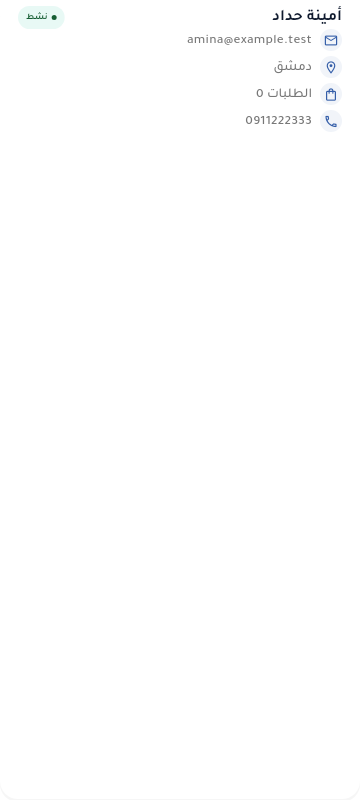
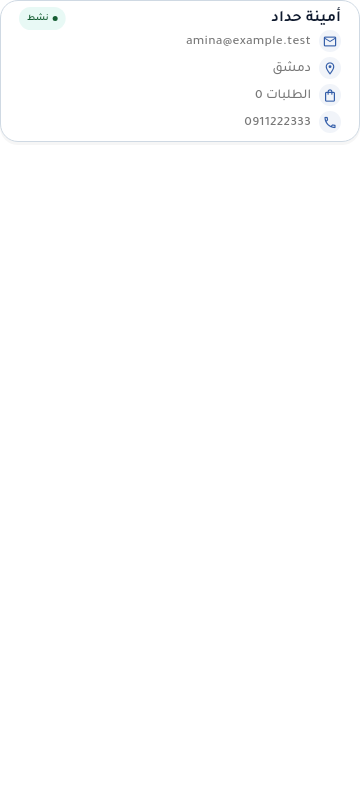
GAP-084: the eight wave-1 candidates were PRE-FRAMING-FIX, and they are re-exported, not approved
THE STALENESS, MEASURED FROM GIT RATHER THAN RECALLED. `git log -- docs/evidence/
route-1-candidates/` returns exactly ONE commit: d7d38d5 (2026-11-07), which put
the eight PNGs and the contact sheet there. 3727efc (2026-11-09) fixed the card
framing two commits later and touched customer_widget.dart, delivery_boy_widget.dart
and golden_harness.dart. Nothing refreshed this directory in the seventeen days
since, so the review package still showed a defect the code no longer has.

WHAT THE STALENESS LOOKED LIKE, each old file against a fresh capture of the same
surface from the current harness, differing pixels counted exactly:

  customer-card.light-ltr       2.19%   last content row y=799 -> y=144
  customer-card.light-rtl       2.20%                    y=799 -> y=144
  customer-card.dark-ltr       82.53%                    y=799 -> y=142
  customer-card.dark-rtl       82.53%                    y=799 -> y=142
  delivery-boy-card.light-ltr   2.13%                    y=799 -> y=123
  delivery-boy-card.light-rtl   2.05%                    y=799 -> y=123
  delivery-boy-card.dark-ltr   85.16%                    y=799 -> y=121
  delivery-boy-card.dark-rtl   85.16%                    y=799 -> y=121

The dark pair is where it is obvious: 98.2-98.4% of the stale image is the CARD's
own fill with no page colour in it at all, because the card stretched to the whole
360x800 box; the fresh ones read 82.2-84.8% page.
[…]

diff --git a/tool/contact_sheet.py b/tool/contact_sheet.py
@@ -1,0 +1,205 @@
+#!/usr/bin/env python3
+"""Build the route-1 CONTACT SHEET from a directory of captured golden images.
+
+WHY THIS FILE EXISTS, AND IT IS NOT CONVENIENCE
+===============================================
+`docs/evidence/route-1-candidates/CONTACT-SHEET.png` is what a reviewer actually looks at, and
+until now it had no generator anywhere in this repository: it was made once, by hand, beside the
+eight wave-1 candidates in d7d38d5 (2026-11-07). Three commits later 3727efc (2026-11-09) fixed the
+card framing, the eight PNGs and the sheet were never re-made, and the review package went on
+showing a defect that the code no longer had -- measured at 82.5% and 85.2% of differing pixels in
+the two dark card surfaces. A review package that cannot be regenerated in one command is a review
+package that goes stale, so the command is now in the repository next to the images.
+
+WHAT IT DOES NOT DO. It does not approve anything, it does not write into `test/golden/goldens/`,
+and it does not decide which images are correct. It lays captured PNGs out side by side with their
+combination named under each one so that a person can look at all of them at once. Route 1 step 2 --
+a human eye on every image -- is unchanged and is not performed by this script.
+
+THE CROP IS COMPUTED, NOT CONFIGURED. Every capture is the full 360x800 harness surface and the
+surfaces are content-height since 3727efc, so a fixed crop would either cut a tall card off or leave
+most of a sheet empty. Each row is cropped to the tallest content in that row plus `--page-margin`
+rows of page background, which is deliberate: the band of page colour UNDER the card is the visible
+proof that the card is content-height rather than filling its box, which is exactly the regression
+this directory shipped once already.
+
+USAGE
+    python3 tool/contact_sheet.py \
+        --images-dir docs/evidence/route-1-candidates \
+        --out docs/evidence/route-1-candidates/CONTACT-SHEET.png \
+        --note "Flutter 3.47.7 - flutter test --tags golden --update-goldens" \
+        --surface "customer-card|Customer card|lib/view/new_widgets/customer_widget.dart"
+
+Requires Pillow built with libraqm, because half of these images are Arabic and the per-tile labels
+carry Arabic text: without shaping, `العربية` renders as disconnected letters in the wrong order.
+`PIL.features.check('raqm')` is asserted below rather than assumed.
+"""
+
+from __future__ import annotations
+
+import argparse
+import sys
+from pathlib import Path
+
+from PIL import Image, ImageDraw, ImageFont, features
+
+# The four combinations every surface in this project is captured in, in the order a reviewer reads
+# them: the two light ones, then the two dark ones. Matches `kFourCombinations` in
+# test/support/golden_harness.dart.
+COMBINATIONS = [
+    ("light-ltr", "English", "LTR", "Light"),
+    ("light-rtl", "العربية", "RTL", "Light"),
+    ("dark-ltr", "English", "LTR", "Dark"),
+    ("dark-rtl", "العربية", "RTL", "Dark"),
+]
+
+TILE_W = 360          # the harness surface width; images are placed at 1:1, never rescaled
+GAP = 16
+MARGIN = 18
+HEADER_TOP = 64      # title + subtitle; the notes grow the band below this
+NOTE_H = 16
+LABEL_H = 34
+SECTION_H = 46
+
+INK = (15, 26, 46)
+MUTED = (110, 120, 135)
+PAPER = (255, 255, 255)
+BAND = (15, 26, 46)
+BAND_INK = (255, 255, 255)
+BAND_MUTED = (150, 200, 230)
+HAIRLINE = (190, 198, 210)
+
+# The app's own typeface, so the sheet is set in the same family as the pictures on it.
+FONT_DIR = Path(__file__).resolve().parent.parent / "assets" / "fonts"
+FALLBACK_FONT_DIR = Path("/usr/share/fonts/truetype/dejavu")
+
+
+def _font(weight: str, size: int) -> ImageFont.FreeTypeFont:
+    candidates = [
+        FONT_DIR / f"Tajawal-{weight}.ttf",
+        FALLBACK_FONT_DIR / ("DejaVuSans-Bold.ttf" if weight != "Regular" else "DejaVuSans.ttf"),
+    ]
+    for path in candidates:
+        if path.exists():
+            return ImageFont.truetype(str(path), size)
+    raise SystemExit(f"no font found for weight {weight}; looked in {FONT_DIR} and {FALLBACK_FONT_DIR}")
+
+
+def content_bottom(image: Image.Image) -> int:
+    """The last row that is not the page background, i.e. where the rendered content ends.
+
+    The page colour is read from the BOTTOM-left pixel, not the top-left: content is aligned to
+    `AlignmentDirectional.topStart` by the harness, so the top-left pixel can be inside the card's
+    own rounded corner while the bottom-left is always page.
+    """
+    rgb = image.convert("RGB")
+    width, height = rgb.size
+    page = rgb.getpixel((0, height - 1))
+    pixels = rgb.load()
+
+    for y in range(height - 1, -1, -1):
+        for x in range(width):
+            r, g, b = pixels[x, y]
+            if abs(r - page[0]) > 2 or abs(g - page[1]) > 2 or abs(b - page[2]) > 2:
+                return y
+
+    return 0
+
+
+def parse_surface(spec: str) -> tuple[str, str, str]:
+    parts = spec.split("|")
+    if len(parts) != 3:
+        raise SystemExit(f'--surface wants "slug|Title|source/path.dart", got "{spec}"')
+    return parts[0], parts[1], parts[2]
+
+
+def main(argv: list[str]) -> int:
+    if not features.check("raqm"):
+        raise SystemExit(
+            "Pillow has no libraqm, so the Arabic labels on this sheet would render as "
+            "disconnected letters in visual order. Install libraqm and rebuild Pillow."
+        )
+
+    ap = argparse.ArgumentParser(description=__doc__)
+    ap.add_argument("--images-dir", required=True)
+    ap.add_argument("--out", required=True)
+    ap.add_argument("--title", default="Flutter route 1 — GOLDEN CANDIDATES, NOT APPROVED BASELINES")
+    ap.add_argument(
+        "--subtitle",
+        default="Awaiting human review (step 2 of 3). Nothing here is committed to "
+        "test/golden/goldens as a baseline.",
+    )
+    ap.add_argument("--note", action="append", default=[])
+    ap.add_argument("--surface", action="append", required=True)
+    ap.add_argument("--page-margin", type=int, default=46,
+                    help="rows of page background kept under the tallest content in each row")
+    args = ap.parse_args(argv)
+
+    images_dir = Path(args.images_dir)
+    surfaces = [parse_surface(s) for s in args.surface]
+
+    # Load every tile first: the sheet's height depends on what the pictures contain.
+    rows: list[tuple[str, str, str, list[tuple[str, Image.Image]]]] = []
+    for slug, title, source in surfaces:
+        tiles = []
+        for name, _lang, _dir_, _theme in COMBINATIONS:
+            path = images_dir / f"{slug}.{name}.png"
+            if not path.exists():
+                raise SystemExit(f"missing capture: {path}")
+            tiles.append((name, Image.open(path).convert("RGB")))
+        rows.append((slug, title, source, tiles))
+
+    row_heights = [
+        min(
+            max(content_bottom(img) for _, img in tiles) + args.page_margin,
+            tiles[0][1].size[1],
+        )
+        for _, _, _, tiles in rows
+    ]
+
+    header_h = HEADER_TOP + NOTE_H * len(args.note) + 8
+    width = MARGIN * 2 + TILE_W * 4 + GAP * 3
+    height = header_h + sum(SECTION_H + h + LABEL_H + GAP for h in row_heights) + MARGIN
+
+    sheet = Image.new("RGB", (width, height), PAPER)
+    draw = ImageDraw.Draw(sheet)
+
+    f_title = _font("Bold", 21)
+    f_sub = _font("Medium", 14)
+    f_note = _font("Regular", 12)
+    f_section = _font("Bold", 16)
+    f_label = _font("Bold", 13)
+    f_file = _font("Regular", 11)
+
+    draw.rectangle([0, 0, width, header_h], fill=BAND)
+    draw.text((MARGIN, 14), args.title, font=f_title, fill=BAND_INK)
+    draw.text((MARGIN, 42), args.subtitle, font=f_sub, fill=BAND_MUTED)
+    for i, note in enumerate(args.note):
+        draw.text((MARGIN, HEADER_TOP + i * NOTE_H), note, font=f_note, fill=(185, 195, 210))
+
+    y = header_h + 12
+    for (slug, title, source, tiles), row_h in zip(rows, row_heights):
+        draw.text((MARGIN, y), title, font=f_section, fill=INK)
+        draw.text((MARGIN, y + 21), source, font=f_file, fill=MUTED)
+        y += SECTION_H
+
+        for col, ((name, img), (_n, lang, direction, theme)) in enumerate(zip(tiles, COMBINATIONS)):
+            x = MARGIN + col * (TILE_W + GAP)
+            sheet.paste(img.crop((0, 0, TILE_W, row_h)), (x, y))
+            draw.rectangle([x, y, x + TILE_W - 1, y + row_h - 1], outline=HAIRLINE)
+            draw.text((x, y + row_h + 7), f"{lang}  ·  {direction}  ·  {theme}",
+                      font=f_label, fill=INK)
+            draw.text((x, y + row_h + 21), f"{slug}.{name}.png", font=f_file, fill=MUTED)
+
+        y += row_h + LABEL_H + GAP
+
+    out = Path(args.out)
+    out.parent.mkdir(parents=True, exist_ok=True)
+    sheet.save(out)
+    print(f"{out}  {width}x{height}  "
+          f"{len(rows)} surfaces x {len(COMBINATIONS)} combinations = {len(rows) * 4} images")
+    return 0
+
+
+if __name__ == "__main__":
+    sys.exit(main(sys.argv[1:]))

diff --git a/docs/evidence/route-1-candidates/README.md b/docs/evidence/route-1-candidates/README.md
@@ -6,6 +6,7 @@ and copied it into `test/golden/goldens/`; from that moment the ordinary blockin
 compares pixels against it on every push, for ever.
 
 `CONTACT-SHEET.png` is all eight at a glance. The individual originals are beside it at full size.
+Both are regenerated by `tool/contact_sheet.py`; see §"Re-exported" below for the exact command.
 
 | file | surface | language | direction | theme |
 |---|---|---|---|---|
@@ -20,6 +21,68 @@ compares pixels against it on every push, for ever.
 
 Sources: `lib/view/new_widgets/customer_widget.dart`, `lib/view/new_widgets/delivery_boy_widget.dart`.
 Captured with `flutter test --tags golden --update-goldens` on Flutter 3.47.7.
+
+---
+
+## Re-exported 2026-11-26 — the previous eight were PRE-FRAMING-FIX, and still un-reviewed
+
+**The eight images in this directory were replaced, not approved.** They were stale, and approving
+them would have frozen a defect the code no longer has.
+
+**The git ordering, measured rather than recalled.**
+
+| | commit | date | what it did |
+|---|---|---|---|
+| candidates committed | `d7d38d5` | 2026-11-07 | the eight PNGs and the contact sheet went in |
+| framing fixed | `3727efc` | 2026-11-09 | `customer_widget.dart`, `delivery_boy_widget.dart`, `golden_harness.dart` |
+| last touch of this directory | `d7d38d5` | 2026-11-07 | — |
+
+`git log -- docs/evidence/route-1-candidates/` returned exactly one commit, `d7d38d5`, so nothing
+had refreshed these images in the seventeen days since the fix landed two commits later.
+
+**What the staleness looked like.** Each old file against a fresh capture of the same surface from
+the current harness, both 360×800, differing pixels counted exactly:
+
+| image | pixels differing | last content row, stale → fresh | dominant colour, stale → fresh |
+|---|---|---|---|
+| `customer-card.light-ltr.png` | 2.19 % | y=799 → y=144 | `#FFFFFF` 98.3 % → `#FFFFFF` 97.7 % |
+| `customer-card.light-rtl.png` | 2.20 % | y=799 → y=144 | `#FFFFFF` 98.3 % → `#FFFFFF` 97.7 % |
+| `customer-card.dark-ltr.png` | **82.53 %** | y=799 → y=142 | `#18263F` 98.2 % → `#0F1A2E` 82.2 % |
+| `customer-card.dark-rtl.png` | **82.53 %** | y=799 → y=142 | `#18263F` 98.2 % → `#0F1A2E` 82.2 % |
+| `delivery-boy-card.light-ltr.png` | 2.13 % | y=799 → y=123 | `#FFFFFF` 98.4 % → `#FFFFFF` 97.8 % |
+| `delivery-boy-card.light-rtl.png` | 2.05 % | y=799 → y=123 | `#FFFFFF` 98.4 % → `#FFFFFF` 97.9 % |
+| `delivery-boy-card.dark-ltr.png` | **85.16 %** | y=799 → y=121 | `#18263F` 98.3 % → `#0F1A2E` 84.8 % |
+| `delivery-boy-card.dark-rtl.png` | **85.16 %** | y=799 → y=121 | `#18263F` 98.4 % → `#0F1A2E` 84.8 % |
+
+The dark pair is where it is obvious: the stale image is 98 % *card fill* with no page colour in it
+at all, because the card stretched to the whole 360×800 box. **The light pair differs by only ~2 %
+and is just as stale** — the light card's fill is `Colors.white` and so is the page, so the
+stretch is nearly invisible in a colour histogram. Its signature is the last content row: y=799
+(card to the bottom edge) against y=144 (card ends, page below). A reviewer comparing light images
+by eye could easily have passed the stale ones; the 2 % that moved is the 1 px `cBorder` edge
+`3727efc` added plus the card's new bottom edge.
+
+**The command that produced the current eight.**
+
+```
+flutter test --tags golden --update-goldens test/golden/customer_card_golden_test.dart
+cp test/golden/goldens/{customer-card,delivery-boy-card}.*.png docs/evidence/route-1-candidates/
+python3 tool/contact_sheet.py \
+  --images-dir docs/evidence/route-1-candidates \
+  --out docs/evidence/route-1-candidates/CONTACT-SHEET.png \
+  --surface "customer-card|Customer card|lib/view/new_widgets/customer_widget.dart" \
+  --surface "delivery-boy-card|Delivery-man card|lib/view/new_widgets/delivery_boy_widget.dart"
+```
+
+Flutter 3.47.7, the version `.github/workflows/ci.yml` pins as `FLUTTER_VERSION`. The capture was
+run **twice** and the eight files compared byte for byte with `cmp`: identical, so the SDK pin
+holds and these images are reproducible rather than incidental.
+
+**THEY REMAIN UN-REVIEWED AND UN-APPROVED.** Re-exporting a candidate makes it current; it does not
+make it accepted. No human has looked at these eight, nothing was copied into
+`test/golden/goldens/`, `.gitignore:97` is untouched, and every one of the eight golden cases still
+skips with its own printed reason. Route 1 step 2 is outstanding and is not discharged by this
+refresh.
 
 ---
 
